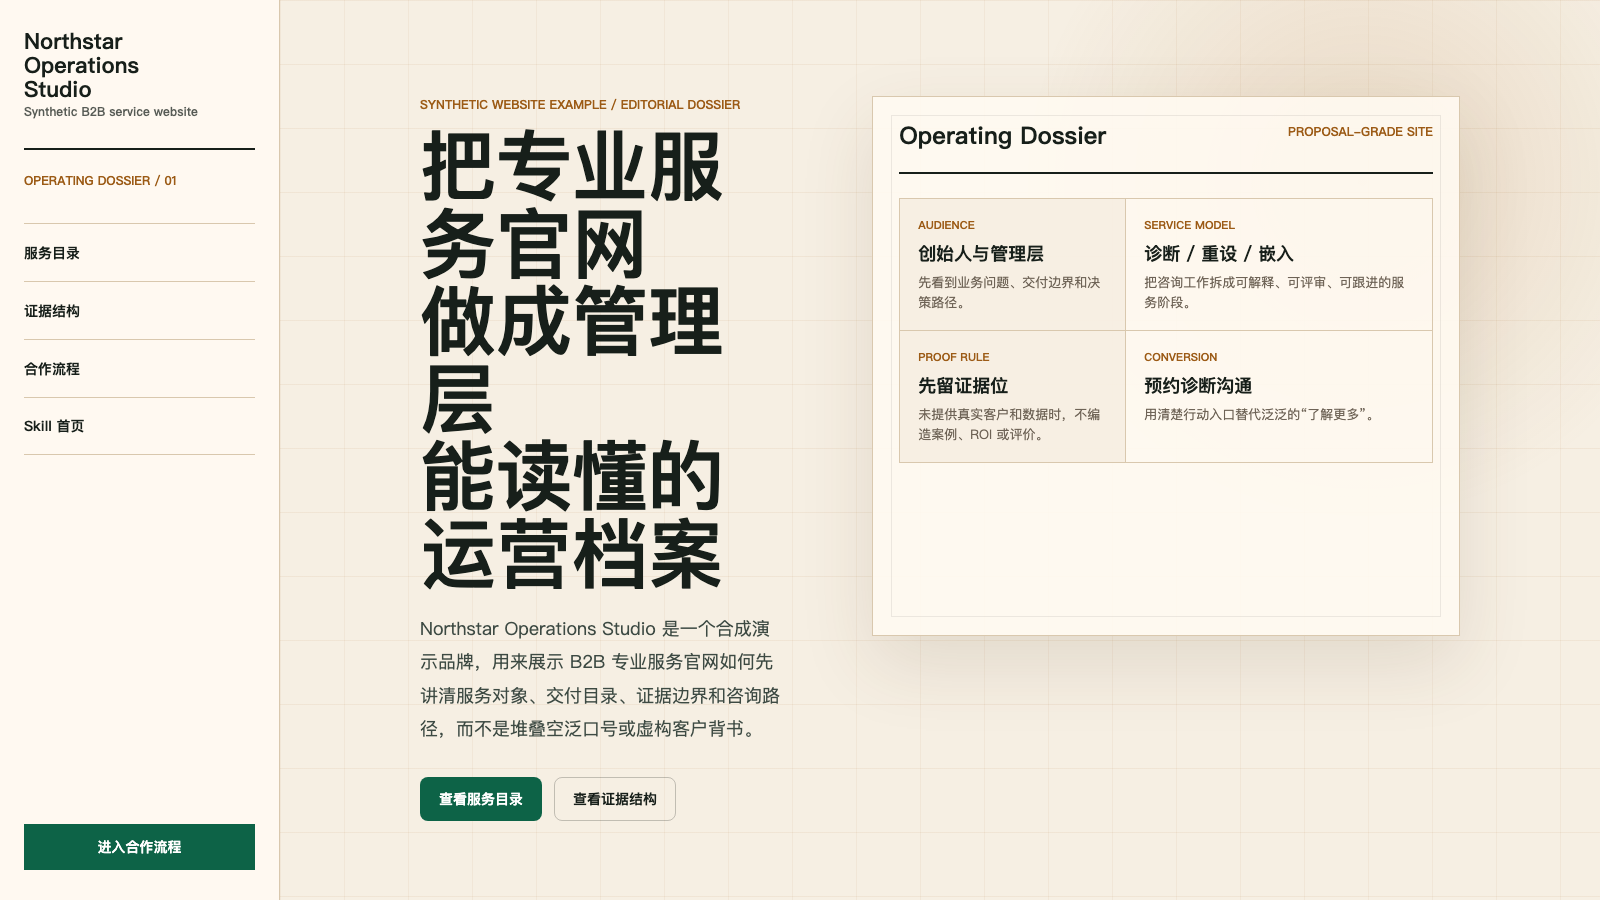
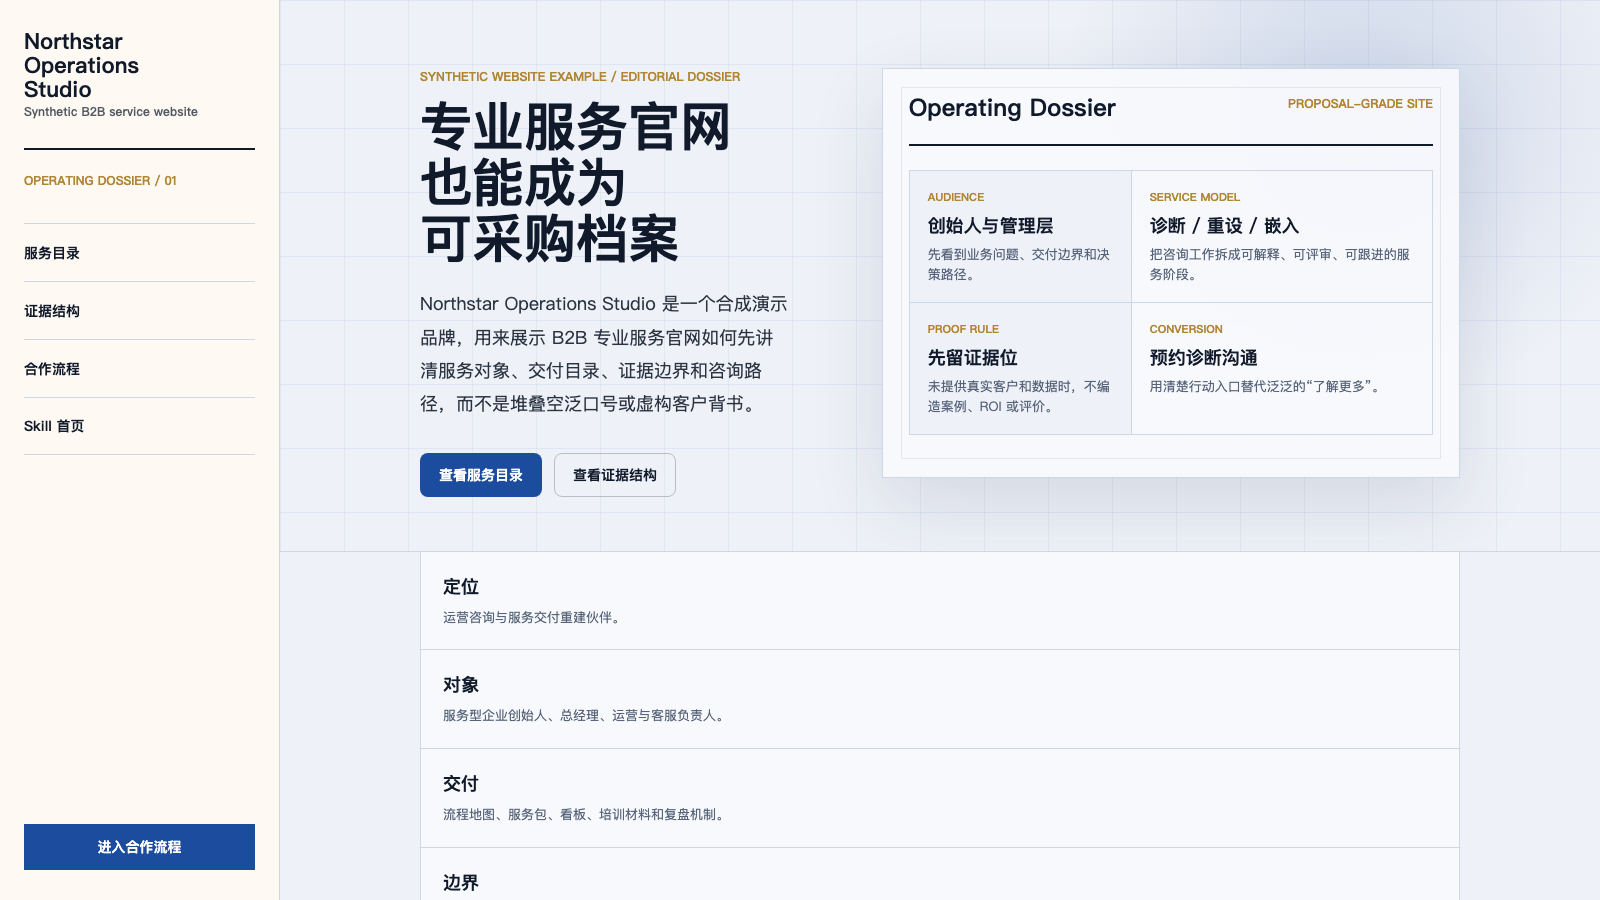
Demos: differentiate b2b-service palette from industrial (cool blue vs teal)
The b2b-service and industrial-green-tech demos both used a dark teal-green
accent (#0d6347 vs #1b756d) — adjacent hues that undercut the skill's core
anti-sameness pitch. Repoint .demo-b2b to a cool blue/navy trust palette
(--green #1c4c9e + cool blue-grey paper/sheet/line), remapping every
hardcoded warm rgba key in the b2b scope. Industrial stays teal-green,
so the three demos now separate clearly on color. Re-rendered the b2b
hero screenshot to match (Chrome headless, 1600x900).

diff --git a/site/examples/example-sites.css b/site/examples/example-sites.css
@@ -201,14 +201,14 @@ nav a:focus-visible {
 
 /* B2B editorial dossier */
 .demo-b2b {
-  --paper: #f6efe3;
-  --sheet: #fffaf1;
-  --ink: #171f1a;
-  --muted: #6e6356;
-  --line: #d9c8ae;
-  --green: #0d6347;
-  --brown: #9c5b16;
-  --blue: #24384f;
+  --paper: #eef1f7;
+  --sheet: #f7f9fc;
+  --ink: #101a2b;
+  --muted: #566378;
+  --line: #cdd8e6;
+  --green: #1c4c9e;
+  --brown: #b08534;
+  --blue: #0f2a52;
   background: var(--paper);
   color: var(--ink);
 }
@@ -218,7 +218,7 @@ nav a:focus-visible {
   grid-template-columns: minmax(180px, 1fr) auto;
   align-items: center;
   padding: 18px var(--pad);
-  background: rgba(246, 239, 227, 0.92);
+  background: rgba(238, 242, 247, 0.92);
   border-bottom: 1px solid rgba(23, 31, 26, 0.12);
   backdrop-filter: blur(14px);
 }
@@ -227,7 +227,7 @@ nav a:focus-visible {
   padding: 7px;
   border: 1px solid rgba(23, 31, 26, 0.12);
   border-radius: 999px;
-  background: rgba(255, 250, 241, 0.72);
+  background: rgba(248, 250, 253, 0.72);
   font-size: 14px;
   font-weight: 900;
 }
@@ -239,9 +239,9 @@ nav a:focus-visible {
   padding: 74px 0 64px;
   border-bottom: 1px solid var(--line);
   background:
-    linear-gradient(rgba(156, 91, 22, 0.07) 1px, transparent 1px),
-    linear-gradient(90deg, rgba(156, 91, 22, 0.06) 1px, transparent 1px),
-    radial-gradient(circle at 82% 20%, rgba(156, 91, 22, 0.15), transparent 26%),
+    linear-gradient(rgba(28, 76, 158, 0.07) 1px, transparent 1px),
+    linear-gradient(90deg, rgba(28, 76, 158, 0.06) 1px, transparent 1px),
+    radial-gradient(circle at 82% 20%, rgba(28, 76, 158, 0.15), transparent 26%),
     var(--paper);
   background-size: 64px 64px, 64px 64px, auto, auto;
 }
@@ -269,7 +269,7 @@ nav a:focus-visible {
 
 .b2b-hero-copy {
   max-width: 640px;
-  color: #3d4a43;
+  color: #2a3340;
   font-size: 18px;
   line-height: 1.85;
 }
@@ -297,8 +297,8 @@ nav a:focus-visible {
   padding: 26px;
   border: 1px solid var(--line);
   border-radius: 0;
-  background: rgba(255, 250, 241, 0.9);
-  box-shadow: 0 28px 70px rgba(83, 59, 30, 0.12);
+  background: rgba(248, 250, 253, 0.9);
+  box-shadow: 0 28px 70px rgba(30, 52, 92, 0.12);
 }
 
 .dossier-board::before {
@@ -345,7 +345,7 @@ nav a:focus-visible {
 
 .dossier-index div:nth-child(odd) {
   border-right: 1px solid var(--line);
-  background: rgba(239, 227, 210, 0.42);
+  background: rgba(226, 232, 242, 0.42);
 }
 
 .dossier-index div:nth-last-child(-n+2) {
@@ -490,8 +490,8 @@ nav a:focus-visible {
   overflow: hidden;
   border-bottom: 1px solid var(--line);
   background:
-    linear-gradient(rgba(156, 91, 22, 0.06) 1px, transparent 1px),
-    linear-gradient(90deg, rgba(156, 91, 22, 0.06) 1px, transparent 1px);
+    linear-gradient(rgba(28, 76, 158, 0.06) 1px, transparent 1px),
+    linear-gradient(90deg, rgba(28, 76, 158, 0.06) 1px, transparent 1px);
   background-size: 54px 54px;
 }
 
@@ -505,7 +505,7 @@ nav a:focus-visible {
   left: 14%;
   right: 12%;
   height: 2px;
-  background: rgba(156, 91, 22, 0.32);
+  background: rgba(28, 76, 158, 0.32);
 }
 
 .evidence-map i:nth-child(1) {
@@ -611,7 +611,7 @@ nav a:focus-visible {
   background:
     linear-gradient(rgba(23, 31, 26, 0.06) 1px, transparent 1px),
     linear-gradient(90deg, rgba(23, 31, 26, 0.05) 1px, transparent 1px),
-    rgba(239, 227, 210, 0.35);
+    rgba(226, 232, 242, 0.35);
   background-size: 48px 48px;
 }
 
@@ -633,7 +633,7 @@ nav a:focus-visible {
 
 .b2b-footer {
   border-top: 1px solid var(--line);
-  background: #eee0cc;
+  background: #dfe6f0;
   color: var(--muted);
 }
 
@@ -646,7 +646,7 @@ nav a:focus-visible {
   border: 1px solid var(--line);
   background:
     linear-gradient(90deg, var(--green) 0 8px, transparent 8px),
-    linear-gradient(135deg, rgba(255, 250, 241, 0.96), rgba(239, 227, 210, 0.72));
+    linear-gradient(135deg, rgba(248, 250, 253, 0.96), rgba(226, 232, 242, 0.72));
 }
 
 /* Industrial engineering system */